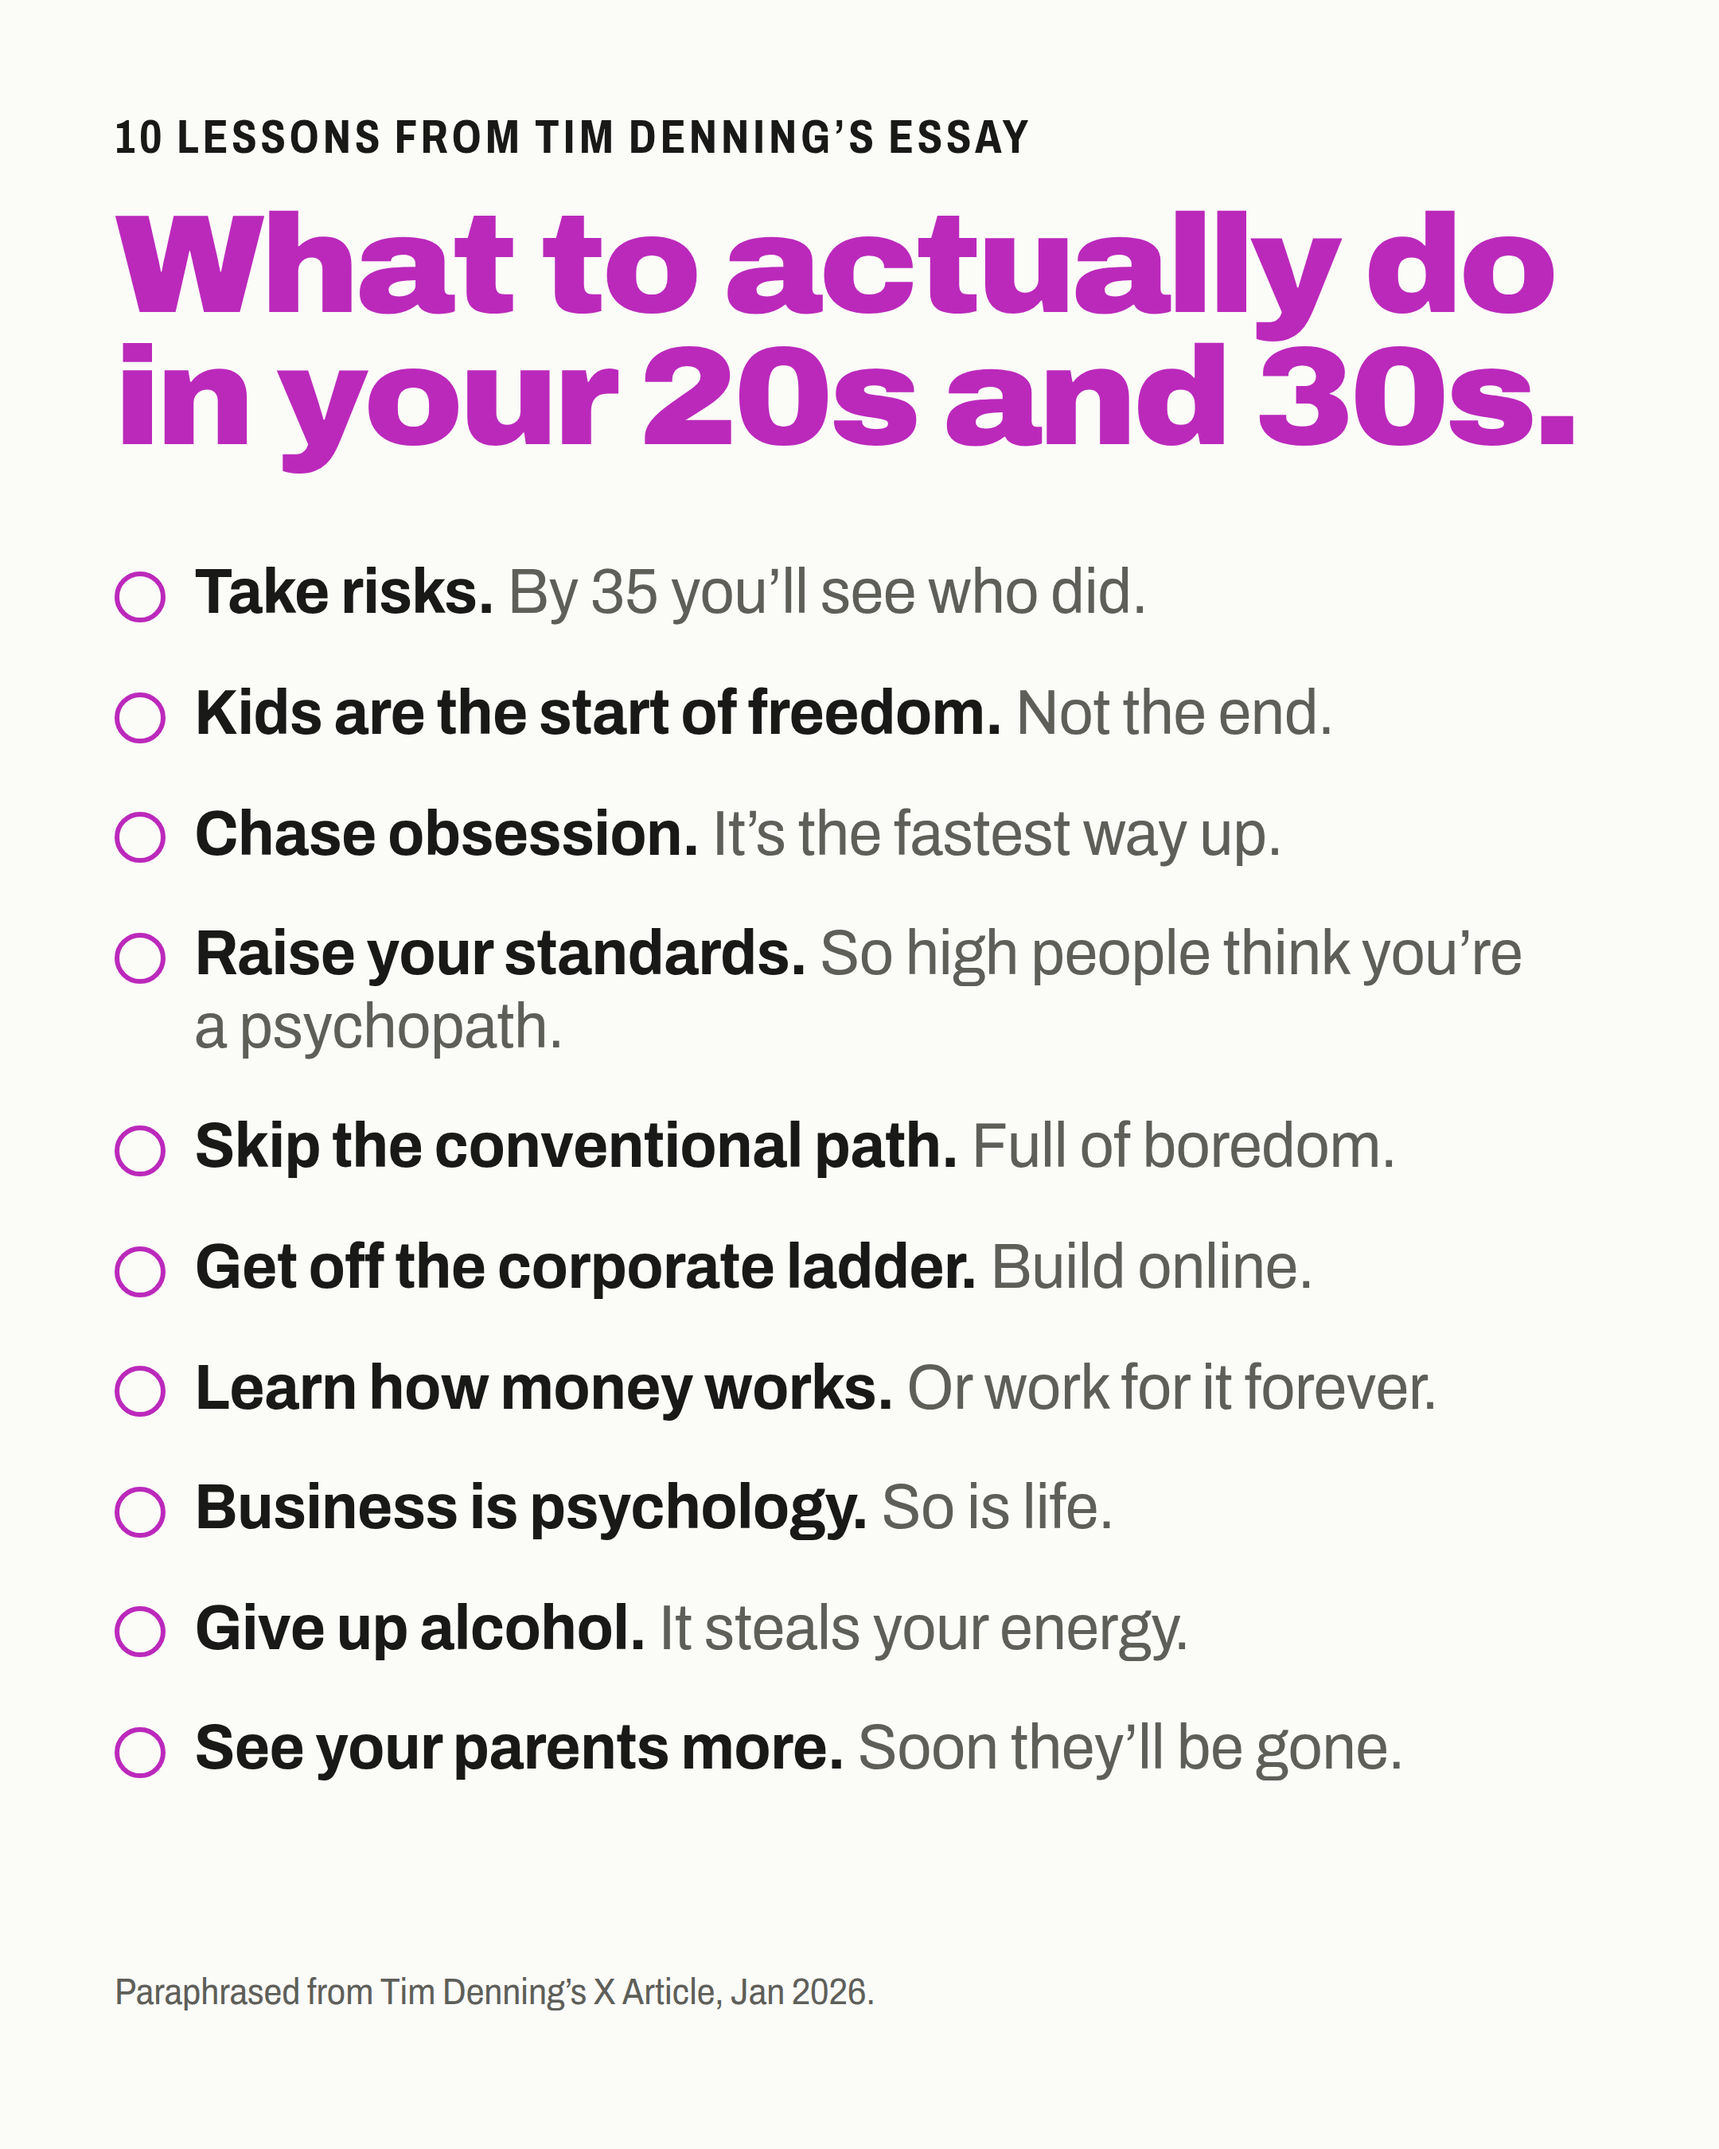
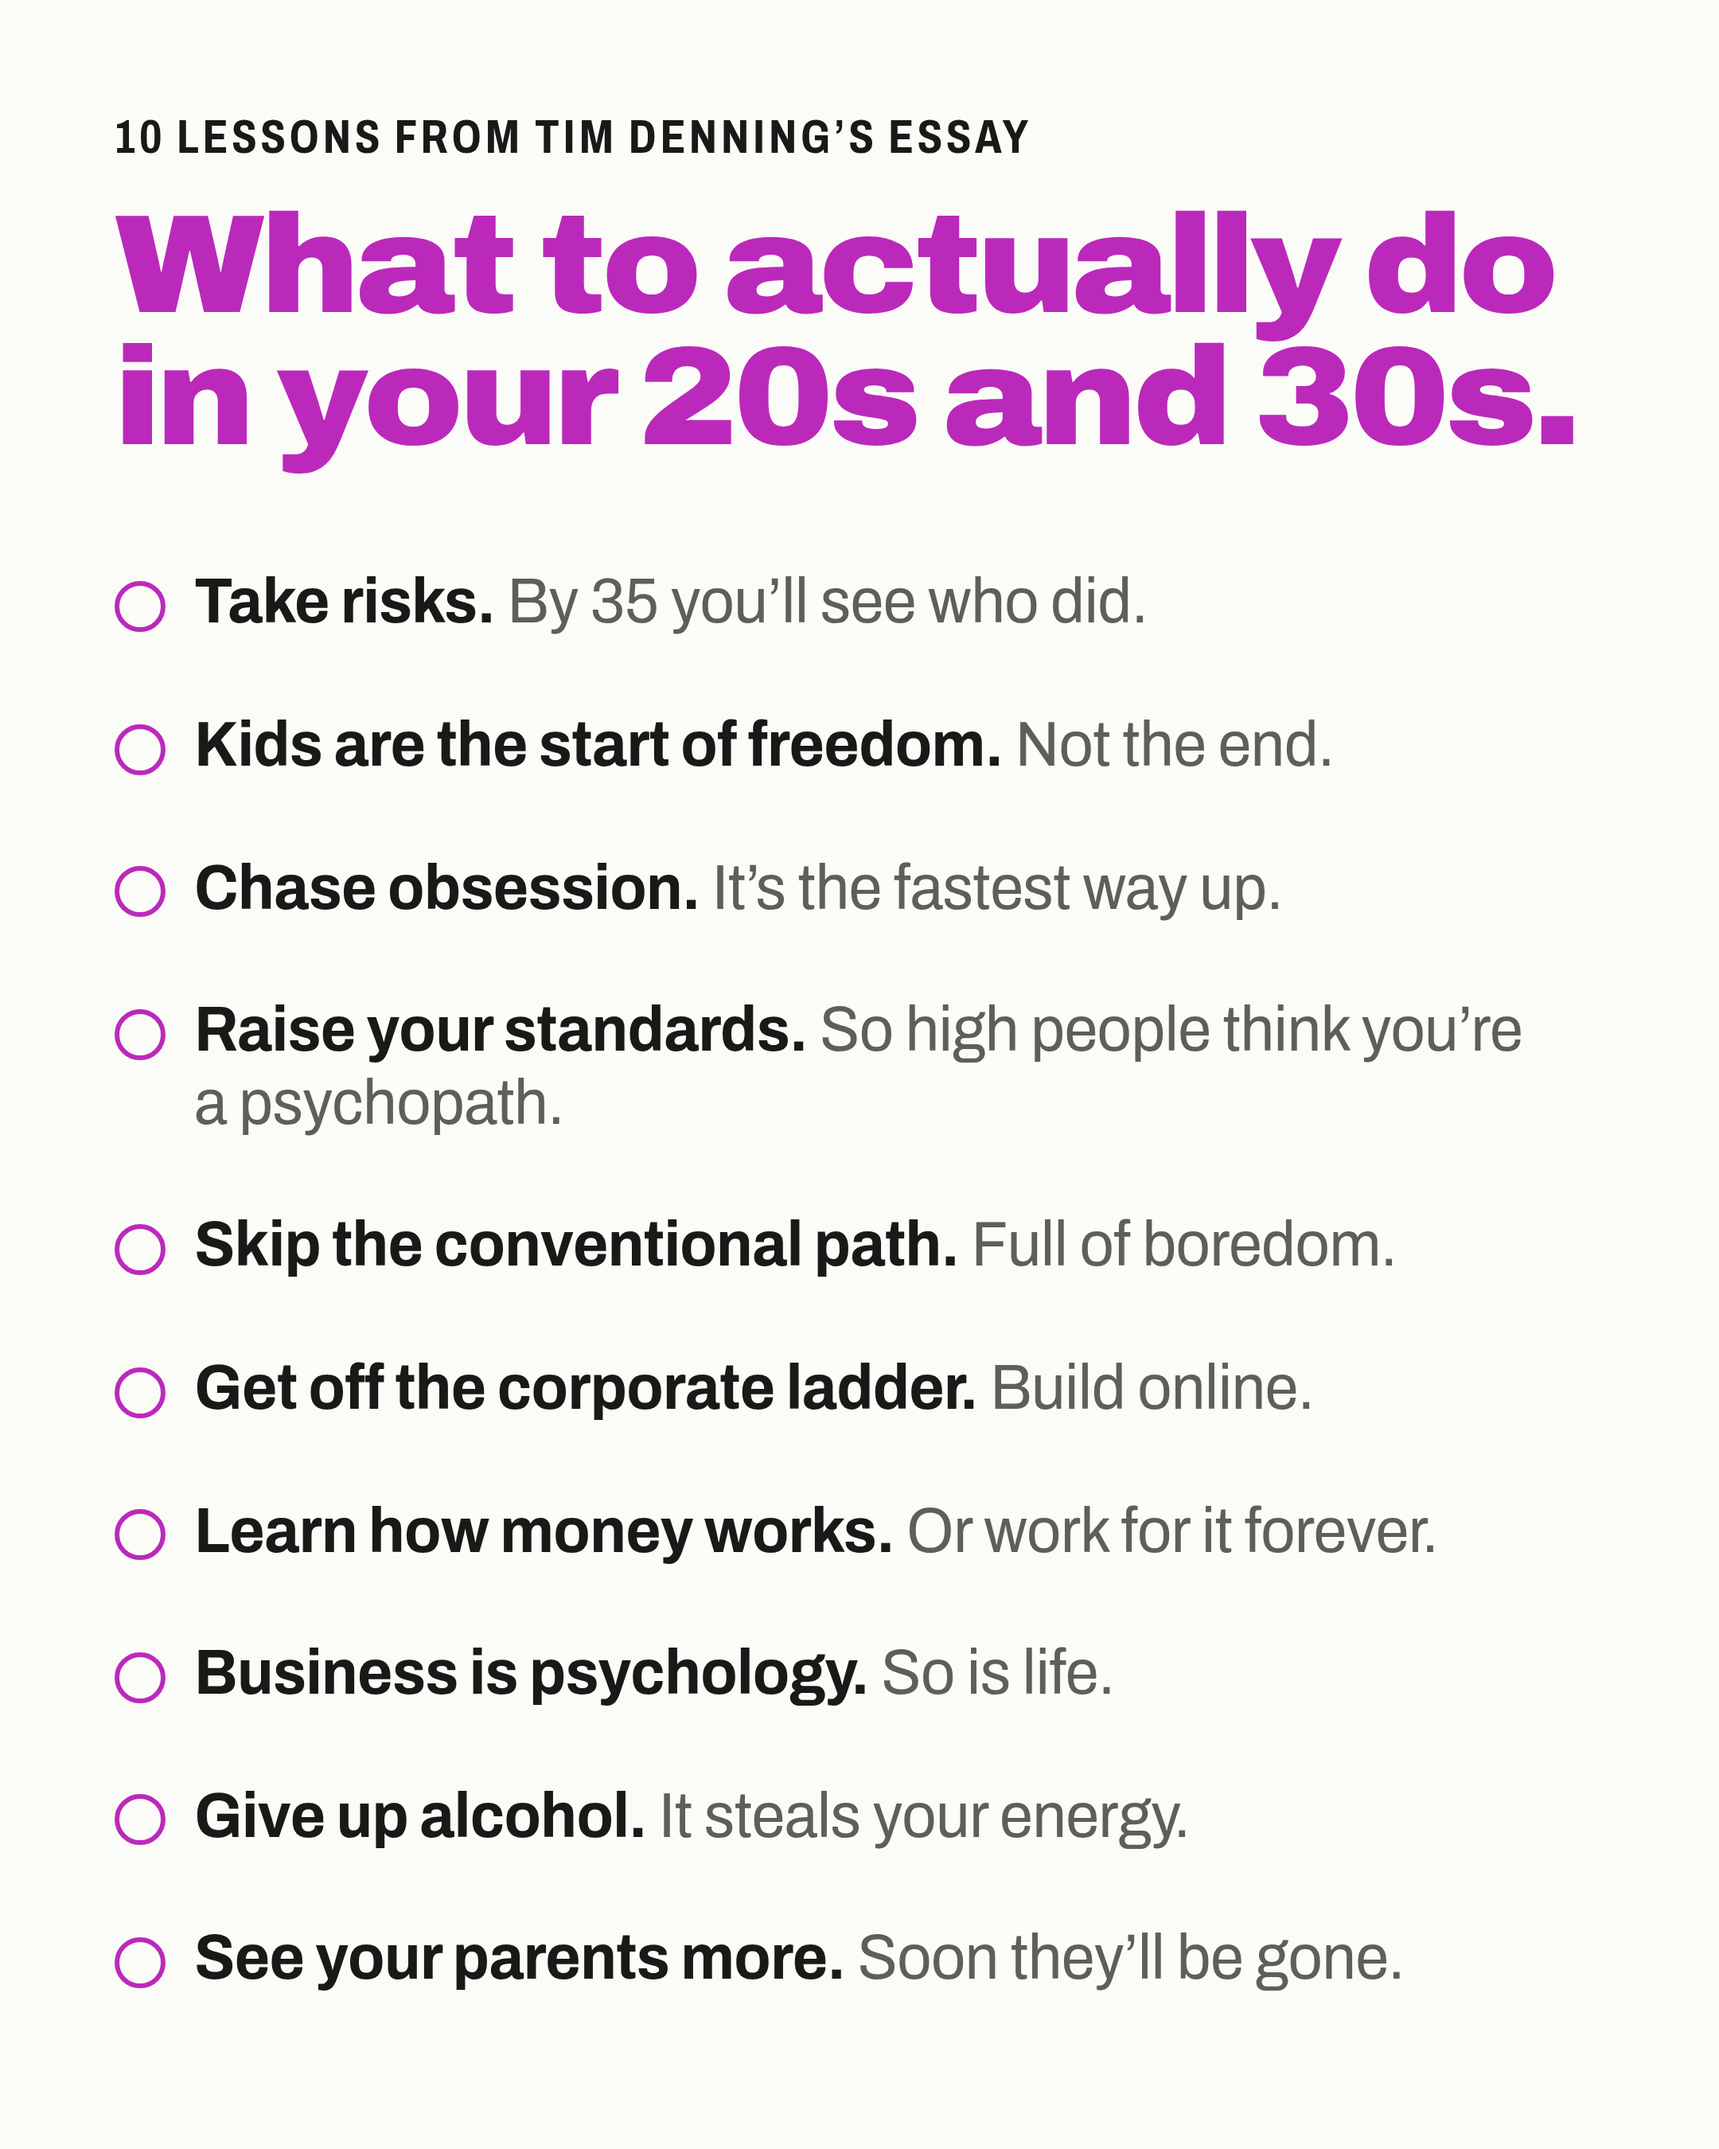
Drop the footer line from the Twitter image
Remove the "Paraphrased from..." footer and spread the list to fill
the page. The top label still credits Tim Denning.

Claude-Session: https://claude.ai/code/session_015A4X3ono6RXoNXhzjmAcW1

Changed region(s): [[0.062, 0.2489, 0.8995, 0.6533], [0.062, 0.6844, 0.8375, 0.8711], [0.062, 0.9022, 0.8065, 0.9333]]

diff --git a/design/tim-denning-im-38/generator/tw3.js b/design/tim-denning-im-38/generator/tw3.js
@@ -24,7 +24,7 @@ body { margin: 0; background: var(--paper); }
 .card { position: relative; width: 1080px; height: 1350px; overflow: hidden; background: var(--paper); color: var(--ink); font-family: var(--f); -webkit-font-smoothing: antialiased; font-kerning: normal; padding: 70px 72px 60px; display: flex; flex-direction: column; }
 .kick { font-stretch: 75%; font-weight: 700; font-size: 30px; letter-spacing: .08em; text-transform: uppercase; }
 h1 { margin: 24px 0 0; font-stretch: 108%; font-weight: 900; font-size: 88px; line-height: .94; letter-spacing: -.03em; color: var(--op); white-space: nowrap; }
-ul { list-style: none; margin: 58px 0 0; padding: 0; display: grid; gap: 30px; }
+ul { list-style: none; margin: 64px 0 0; padding: 0; display: grid; gap: 44px; }
 li { position: relative; padding-left: 50px; font-stretch: 94%; font-size: 40px; line-height: 1.14; letter-spacing: -.008em; text-wrap: pretty; }
 li::before { content: ""; position: absolute; left: 0; top: .24em; width: 26px; height: 26px; border: 3.5px solid var(--op); border-radius: 50%; }
 li b { font-weight: 700; }
@@ -35,7 +35,6 @@ li span { font-weight: 400; color: var(--mute); }
   <div class="kick">10 lessons from Tim Denning’s essay</div>
   <h1>What to actually do<br>in your 20s and 30s.</h1>
   <ul>${TEN.map(([a, b]) => `<li><b>${a}</b> <span>${b}</span></li>`).join('')}</ul>
-  <p class="foot">Paraphrased from Tim Denning’s X Article, Jan 2026.</p>
 </div>`;
 fs.writeFileSync(path.join(__dirname, 'out', 'tw-final.html'), html);
 console.log('ok');

diff --git a/design/tim-denning-im-38/twitter/POST.md b/design/tim-denning-im-38/twitter/POST.md
@@ -9,5 +9,5 @@ Final: one image, `what-to-do-in-your-20s-and-30s.png` (2160 × 2700, 4:5). It s
 
 Notes
 - The first three lessons are his first three, in his order. The other seven are a selection, so the image uses bullets, not numbers.
-- Lines are paraphrased, and the image says so. Several follow-ups are his own words.
+- Lines are paraphrased; several follow-ups are his own words. The top label credits him, and the post text tags and links him.
 - `earlier/` holds previous versions (the "I'M 38." headline version and the two-image thread), kept for reference.
